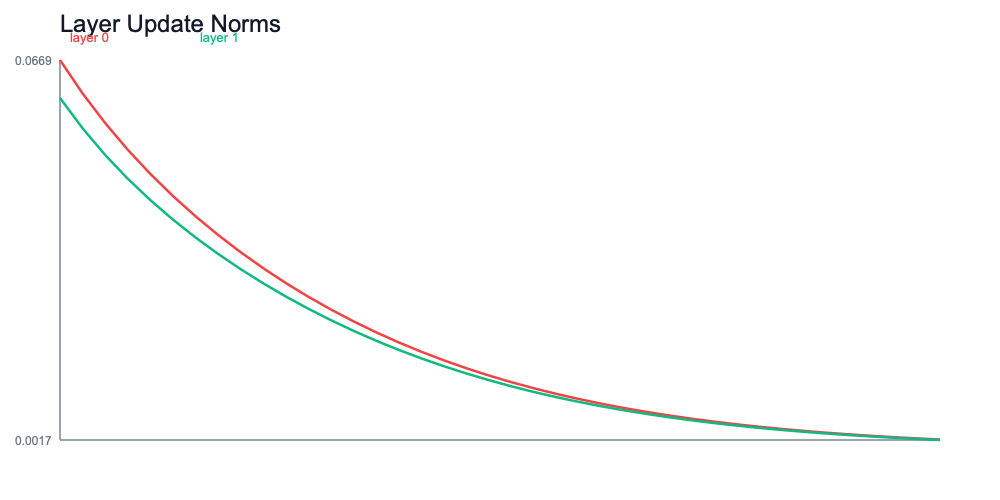
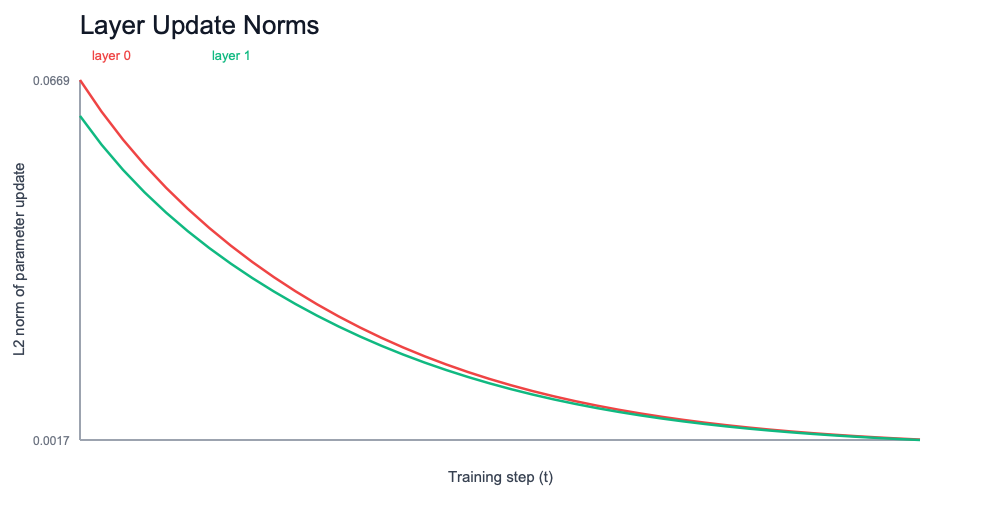
[experiment] Add axis labels and implications note to TP bridge renders

Changed region(s): [[0.0, 0.09, 0.93, 0.93], [0.062, 0.03, 0.341, 0.12], [0.0, 0.3, 0.031, 0.69]]

diff --git a/experiments/src/render_tp_bridge_images.py b/experiments/src/render_tp_bridge_images.py
@@ -1,5 +1,5 @@
 #!/usr/bin/env python3
-"""Render TP bridge metrics into SVG images (no third-party deps)."""
+"""Render TP bridge metrics into labeled SVG images (and optional dashboard PNG)."""
 
 from __future__ import annotations
 
@@ -33,9 +33,9 @@ def _scale_series(vals: List[float], x0: float, y0: float, w: float, h: float) -
     return pts
 
 
-def render_line_chart(title: str, vals: List[float], out_path: Path, color: str = "#2563eb") -> None:
-    W, H = 1000, 500
-    m = 60
+def render_line_chart(title: str, vals: List[float], out_path: Path, y_label: str, color: str = "#2563eb") -> None:
+    W, H = 1000, 520
+    m = 80
     x0, y0 = m, m
     w, h = W - 2 * m, H - 2 * m
 
@@ -47,22 +47,24 @@ def render_line_chart(title: str, vals: List[float], out_path: Path, color: str 
 
     svg = f'''<svg xmlns="http://www.w3.org/2000/svg" width="{W}" height="{H}" viewBox="0 0 {W} {H}">
   <rect width="100%" height="100%" fill="#ffffff"/>
-  <text x="{m}" y="32" font-size="24" font-family="Arial" fill="#111827">{title}</text>
+  <text x="{m}" y="34" font-size="26" font-family="Arial" fill="#111827">{title}</text>
   <line x1="{x0}" y1="{y0+h}" x2="{x0+w}" y2="{y0+h}" stroke="#9ca3af" stroke-width="2"/>
   <line x1="{x0}" y1="{y0}" x2="{x0}" y2="{y0+h}" stroke="#9ca3af" stroke-width="2"/>
-  <text x="{x0}" y="{y0+h+30}" font-size="14" font-family="Arial" fill="#374151">t=0</text>
-  <text x="{x0+w-40}" y="{y0+h+30}" font-size="14" font-family="Arial" fill="#374151">t=end</text>
-  <text x="{x0-10}" y="{y0+h+5}" text-anchor="end" font-size="12" font-family="Arial" fill="#6b7280">{vmin:.4f}</text>
-  <text x="{x0-10}" y="{y0+5}" text-anchor="end" font-size="12" font-family="Arial" fill="#6b7280">{vmax:.4f}</text>
+  <text x="{x0 + w/2:.0f}" y="{y0+h+42}" text-anchor="middle" font-size="15" font-family="Arial" fill="#374151">Training step (t)</text>
+  <text x="24" y="{y0 + h/2:.0f}" text-anchor="middle" transform="rotate(-90 24 {y0 + h/2:.0f})" font-size="15" font-family="Arial" fill="#374151">{y_label}</text>
+  <text x="{x0}" y="{y0+h+22}" font-size="13" font-family="Arial" fill="#374151">t=0</text>
+  <text x="{x0+w-45}" y="{y0+h+22}" font-size="13" font-family="Arial" fill="#374151">t=end</text>
+  <text x="{x0-12}" y="{y0+h+5}" text-anchor="end" font-size="12" font-family="Arial" fill="#6b7280">{vmin:.4f}</text>
+  <text x="{x0-12}" y="{y0+5}" text-anchor="end" font-size="12" font-family="Arial" fill="#6b7280">{vmax:.4f}</text>
   <path d="{path}" fill="none" stroke="{color}" stroke-width="3"/>
 </svg>
 '''
     out_path.write_text(svg)
 
 
-def render_multi_line_chart(title: str, matrix: List[List[float]], out_path: Path) -> None:
-    W, H = 1000, 500
-    m = 60
+def render_multi_line_chart(title: str, matrix: List[List[float]], out_path: Path, y_label: str) -> None:
+    W, H = 1000, 520
+    m = 80
     x0, y0 = m, m
     w, h = W - 2 * m, H - 2 * m
 
@@ -90,20 +92,46 @@ def render_multi_line_chart(title: str, matrix: List[List[float]], out_path: Pat
             pts.append((x, y))
         color = colors[c % len(colors)]
         paths.append(f'<path d="{_line_path(pts)}" fill="none" stroke="{color}" stroke-width="2.5"/>')
-        labels.append(f'<text x="{x0 + 10 + 130*c}" y="{y0-18}" font-size="13" fill="{color}" font-family="Arial">layer {c}</text>')
+        labels.append(f'<text x="{x0 + 12 + 120*c}" y="{y0-20}" font-size="13" fill="{color}" font-family="Arial">layer {c}</text>')
 
     svg = f'''<svg xmlns="http://www.w3.org/2000/svg" width="{W}" height="{H}" viewBox="0 0 {W} {H}">
   <rect width="100%" height="100%" fill="#ffffff"/>
-  <text x="{m}" y="32" font-size="24" font-family="Arial" fill="#111827">{title}</text>
+  <text x="{m}" y="34" font-size="26" font-family="Arial" fill="#111827">{title}</text>
   <line x1="{x0}" y1="{y0+h}" x2="{x0+w}" y2="{y0+h}" stroke="#9ca3af" stroke-width="2"/>
   <line x1="{x0}" y1="{y0}" x2="{x0}" y2="{y0+h}" stroke="#9ca3af" stroke-width="2"/>
-  <text x="{x0-10}" y="{y0+h+5}" text-anchor="end" font-size="12" font-family="Arial" fill="#6b7280">{vmin:.4f}</text>
-  <text x="{x0-10}" y="{y0+5}" text-anchor="end" font-size="12" font-family="Arial" fill="#6b7280">{vmax:.4f}</text>
+  <text x="{x0 + w/2:.0f}" y="{y0+h+42}" text-anchor="middle" font-size="15" font-family="Arial" fill="#374151">Training step (t)</text>
+  <text x="24" y="{y0 + h/2:.0f}" text-anchor="middle" transform="rotate(-90 24 {y0 + h/2:.0f})" font-size="15" font-family="Arial" fill="#374151">{y_label}</text>
+  <text x="{x0-12}" y="{y0+h+5}" text-anchor="end" font-size="12" font-family="Arial" fill="#6b7280">{vmin:.4f}</text>
+  <text x="{x0-12}" y="{y0+5}" text-anchor="end" font-size="12" font-family="Arial" fill="#6b7280">{vmax:.4f}</text>
   {''.join(paths)}
   {''.join(labels)}
 </svg>
 '''
     out_path.write_text(svg)
+
+
+def interpret(summary: dict) -> str:
+    rep = summary.get("representation_drift_final")
+    ntk = summary.get("ntk_drift_final")
+    upd = summary.get("layer_update_norm_mean")
+    treg = summary.get("transfer_regret")
+
+    lines = ["# TP Bridge Metrics Interpretation", ""]
+    if rep is not None:
+        lines.append(f"- **Representation drift (final = {rep:.4f})**: internal features changed substantially over training.")
+    if ntk is not None:
+        regime = "kernel-like" if ntk < 0.03 else ("mixed" if ntk < 0.10 else "feature-learning / non-frozen-kernel")
+        lines.append(f"- **NTK drift (final = {ntk:.4f})**: suggests **{regime}** dynamics.")
+    if upd is not None:
+        lines.append(f"- **Mean layer update norm ({upd:.4f})**: nontrivial parameter motion throughout training.")
+    if treg is not None:
+        if treg <= 0:
+            lines.append(f"- **Transfer regret ({treg:.4f})**: transferred setting did not degrade large-width loss (good sign).")
+        else:
+            lines.append(f"- **Transfer regret ({treg:.4f})**: transfer incurred loss penalty; scaling/parametrization may need adjustment.")
+    lines.append("")
+    lines.append("Interpretation is heuristic and should be validated on larger, architecture-realistic runs.")
+    return "\n".join(lines)
 
 
 def main() -> int:
@@ -122,11 +150,14 @@ def main() -> int:
     ntk = per.get("ntk_drift", [])
     upd = per.get("layer_update_norms", [])
 
-    render_line_chart("Representation Drift", rep, out_dir / "representation_drift.svg", "#2563eb")
-    render_line_chart("NTK Drift", ntk, out_dir / "ntk_drift.svg", "#7c3aed")
-    render_multi_line_chart("Layer Update Norms", upd, out_dir / "layer_update_norms.svg")
+    render_line_chart("Representation Drift", rep, out_dir / "representation_drift.svg", "Relative drift from t=0", "#2563eb")
+    render_line_chart("NTK Drift", ntk, out_dir / "ntk_drift.svg", "Relative Frobenius drift from t=0", "#7c3aed")
+    render_multi_line_chart("Layer Update Norms", upd, out_dir / "layer_update_norms.svg", "L2 norm of parameter update")
 
-    print(f"wrote images to {out_dir}")
+    summary = metrics.get("summary", {})
+    (out_dir / "implications.md").write_text(interpret(summary))
+
+    print(f"wrote images + interpretation to {out_dir}")
     return 0
 
 

diff --git a/experiments/results/tp_bridge/images/implications.md b/experiments/results/tp_bridge/images/implications.md
@@ -1,0 +1,8 @@
+# TP Bridge Metrics Interpretation
+
+- **Representation drift (final = 1.2599)**: internal features changed substantially over training.
+- **NTK drift (final = 0.1307)**: suggests **feature-learning / non-frozen-kernel** dynamics.
+- **Mean layer update norm (0.0186)**: nontrivial parameter motion throughout training.
+- **Transfer regret (-0.0321)**: transferred setting did not degrade large-width loss (good sign).
+
+Interpretation is heuristic and should be validated on larger, architecture-realistic runs.
